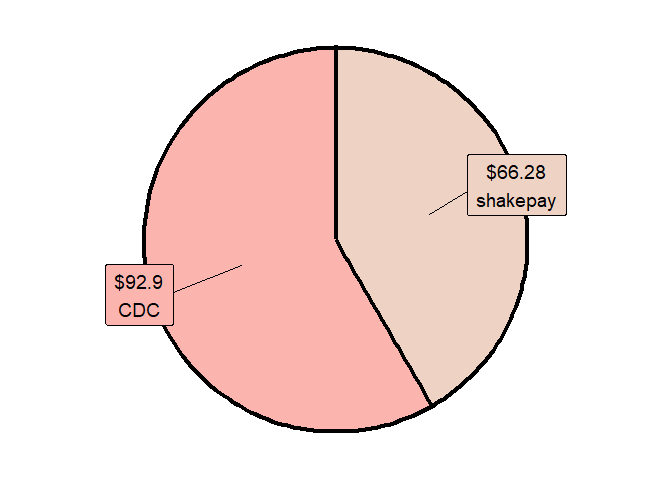
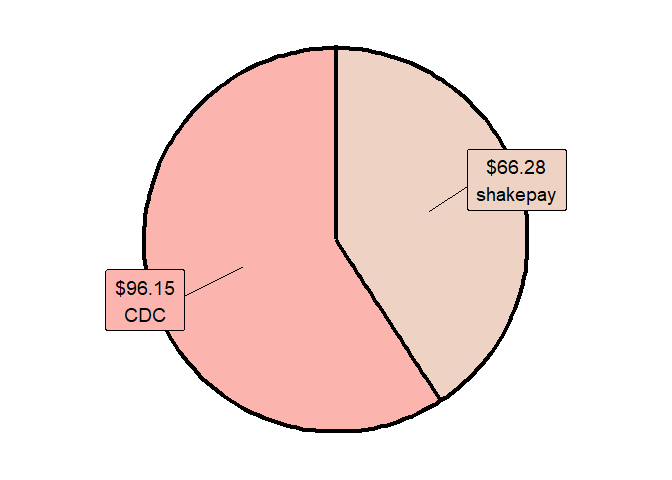
switch with_tz for as_datetime and adjust tests

diff --git a/README.md b/README.md
@@ -108,22 +108,22 @@ all.data <- merge_exchanges(formatted.shakepay, formatted.CDC)
 
 # Format data with ACB
 formatted.ACB <- format_ACB(all.data)
-#> Process started at 2023-01-08 19:54:28. Please be patient as the transactions process.
+#> Process started at 2023-01-08 20:30:32. Please be patient as the transactions process.
 #> [Formatting ACB (progress bar repeats for each coin)...]
-#> Process ended at 2023-01-08 19:54:29. Total time elapsed: 1.19 minutes
+#> Process ended at 2023-01-08 20:30:34. Total time elapsed: 0.03 minutes
 
 # Let's get a preview of the output
 as.data.frame(formatted.ACB[c(1, 4, 8, 10, 19, 20), c(1:6, 7:14, 24:26)])
 ```
 
-| date                | currency |  quantity | total.price |    spot.rate | transaction | fees | description                     | comment             | revenue.type |    value | exchange | rate.source | currency2 |    gains |       ACB |    ACB.share |
-|:--------------------|:---------|----------:|------------:|-------------:|:------------|-----:|:--------------------------------|:--------------------|:-------------|---------:|:---------|:------------|:----------|---------:|----------:|-------------:|
-| 2021-05-03 22:05:50 | BTC      | 0.0007334 |    51.25000 | 6.988278e+04 | buy         |    0 | crypto_purchase                 | Buy BTC             | NA           | 51.25000 | CDC      | exchange    | BTC       |       NA |  51.25000 | 6.988278e+04 |
-| 2021-05-07 23:06:50 | ETH      | 0.0205920 |    54.21000 | 2.632575e+03 | buy         |    0 | crypto_purchase                 | Buy ETH             | NA           | 54.21000 | CDC      | exchange    | ETH       |       NA |  54.21000 | 2.632575e+03 |
-| 2021-05-21 12:47:14 | BTC      | 0.0001300 |     0.00000 | 5.652762e+04 | revenue     |    0 | shakingsats                     | credit              | airdrops     |  7.34859 | shakepay | exchange    | BTC       |       NA | 104.28335 | 4.888608e+04 |
-| 2021-05-29 23:10:59 | CRO      | 6.4039545 |     0.00000 | 1.764535e-01 | revenue     |    0 | referral_card_cashback          | Card Cashback       | rebates      |  1.13000 | CDC      | exchange    | CRO       |       NA |  53.42000 | 1.741274e-01 |
-| 2021-07-06 22:18:40 | CRO      | 0.3207992 |     0.26000 | 8.104758e-01 | revenue     |    0 | crypto_earn_extra_interest_paid | Crypto Earn (Extra) | interests    |  0.26000 | CDC      | exchange    | CRO       |       NA |  53.68000 | 1.083560e-01 |
-| 2021-07-10 00:52:19 | BTC      | 0.0005299 |    31.26848 | 5.900715e+04 | sell        |    0 | purchase/sale                   | sale                | NA           | 31.26848 | shakepay | exchange    | BTC       | 8.463513 |  81.47838 | 4.303555e+04 |
+| date                | currency |  quantity | total.price |     spot.rate | transaction | fees | description                     | comment             | revenue.type |    value | exchange | rate.source | currency2 | gains |      ACB |     ACB.share |
+|:--------------------|:---------|----------:|------------:|--------------:|:------------|-----:|:--------------------------------|:--------------------|:-------------|---------:|:---------|:------------|:----------|------:|---------:|--------------:|
+| 2021-05-03 22:05:50 | BTC      | 0.0007334 |       51.25 | 69882.7777778 | buy         |    0 | crypto_purchase                 | Buy BTC             | NA           | 51.25000 | CDC      | exchange    | BTC       |    NA |  51.2500 | 69882.7777778 |
+| 2021-05-07 23:06:50 | ETH      | 0.0205920 |       54.21 |  2632.5750000 | buy         |    0 | crypto_purchase                 | Buy ETH             | NA           | 54.21000 | CDC      | exchange    | ETH       |    NA |  54.2100 |  2632.5750000 |
+| 2021-05-21 12:47:14 | BTC      | 0.0001300 |        0.00 | 56527.6188000 | revenue     |    0 | shakingsats                     | credit              | airdrops     |  7.34859 | shakepay | exchange    | BTC       |    NA | 104.2833 | 48886.0827905 |
+| 2021-05-29 23:10:59 | CRO      | 6.4039545 |        0.00 |     0.1764535 | revenue     |    0 | referral_card_cashback          | Card Cashback       | rebates      |  1.13000 | CDC      | exchange    | CRO       |    NA |  53.4200 |     0.1741274 |
+| 2021-06-27 21:17:50 | ETH      | 0.0007633 |        3.12 |  4087.6923838 | revenue     |    0 | crypto_earn_interest_paid       | Crypto Earn         | interests    |  3.12000 | CDC      | exchange    | ETH       |    NA |  57.3800 |  2685.1921836 |
+| 2021-07-06 22:18:40 | CRO      | 0.3207992 |        0.26 |     0.8104758 | revenue     |    0 | crypto_earn_extra_interest_paid | Crypto Earn (Extra) | interests    |  0.26000 | CDC      | exchange    | CRO       |    NA |  53.6800 |     0.1083560 |
 
 ### Summary info
 
@@ -135,12 +135,13 @@ report_overview(formatted.ACB,
 )
 ```
 
-| date.last           | currency | total.quantity | cost.share | total.cost | gains | losses |  net | rate.today | value.today | unrealized.gains | unrealized.losses | unrealized.net | currency2 |
-|:--------------------|:---------|---------------:|-----------:|-----------:|------:|-------:|-----:|-----------:|------------:|-----------------:|------------------:|---------------:|:----------|
-| 2021-07-23 17:21:19 | CRO      |    535.0406356 |       0.11 |      60.66 |  0.00 |      0 | 0.00 |       0.08 |       44.65 |               NA |            -16.01 |         -16.01 | CRO       |
-| 2021-07-10 00:52:19 | BTC      |      0.0018933 |   43035.55 |      81.48 |  8.46 |      0 | 8.46 |   22883.51 |       43.32 |               NA |            -38.16 |         -38.16 | BTC       |
-| 2021-06-27 21:17:50 | ETH      |      0.0213553 |    2684.58 |      57.33 |  0.00 |      0 | 0.00 |    1715.01 |       36.62 |               NA |            -20.71 |         -20.71 | ETH       |
-| 2021-07-23 17:21:19 | Total    |             NA |         NA |     199.47 |  8.46 |      0 | 8.46 |         NA |      124.59 |                0 |            -74.88 |         -74.88 | Total     |
+| date.last           | currency | total.quantity | cost.share | total.cost | gains | losses |   net | rate.today | value.today | unrealized.gains | unrealized.losses | unrealized.net | currency2 |
+|:--------------------|:---------|---------------:|-----------:|-----------:|------:|-------:|------:|-----------:|------------:|-----------------:|------------------:|---------------:|:----------|
+| 2021-07-23 17:21:19 | CRO      |    535.0406356 |       0.11 |      60.66 |  0.00 |      0 |  0.00 |       0.08 |       44.65 |               NA |            -16.01 |         -16.01 | CRO       |
+| 2021-07-25 18:22:02 | BTC      |      0.0013612 |   43035.55 |      58.58 | 20.57 |      0 | 20.57 |   22883.51 |       31.15 |               NA |            -27.43 |         -27.43 | BTC       |
+| 2021-07-28 23:23:04 | ETH      |      0.0114054 |    2685.19 |      30.63 |  8.25 |      0 |  8.25 |    1715.01 |       19.56 |               NA |            -11.07 |         -11.07 | ETH       |
+| 2021-07-11 20:19:55 | ETHW     |      0.3558067 |       8.99 |       3.20 |  0.00 |      0 |  0.00 |       4.39 |        1.56 |               NA |             -1.64 |          -1.64 | ETHW      |
+| 2021-07-28 23:23:04 | Total    |             NA |         NA |     153.07 | 28.82 |      0 | 28.82 |         NA |       96.92 |                0 |            -56.15 |         -56.15 | Total     |
 
 ``` r
 
@@ -154,30 +155,29 @@ report_summary(formatted.ACB,
 | Type              | Amount  | currency |
 |:------------------|:--------|:---------|
 | tax.year          | 2021    | CAD      |
-| gains             | 8.46    | CAD      |
+| gains             | 28.81   | CAD      |
 | losses            | 0.00    | CAD      |
-| net               | 8.46    | CAD      |
-| total.cost        | 199.47  | CAD      |
-| value.today       | 124.59  | CAD      |
+| net               | 28.81   | CAD      |
+| total.cost        | 153.07  | CAD      |
+| value.today       | 96.92   | CAD      |
 | unrealized.gains  | 0.00    | CAD      |
-| unrealized.losses | -74.88  | CAD      |
-| unrealized.net    | -74.88  | CAD      |
-| percentage.up     | -37.54% | CAD      |
-| all.time.up       | -33.30% | CAD      |
+| unrealized.losses | -56.15  | CAD      |
+| unrealized.net    | -56.15  | CAD      |
+| percentage.up     | -36.68% | CAD      |
+| all.time.up       | -17.86% | CAD      |
 
 ### Revenue estimation
 
 ``` r
 table.revenues <- report_revenues(formatted.ACB, tax.year = "2021")
-#> Adding missing grouping variables: `exchange`
 table.revenues
 ```
 
-| exchange | date.last           | total.revenues | airdrops | referrals | staking | promos | interests | rebates | rewards | currency |
-|:---------|:--------------------|---------------:|---------:|----------:|--------:|-------:|----------:|--------:|--------:|:---------|
-| CDC      | 2021-07-23 17:21:19 |          92.90 |  0.00000 |  30.19035 |       0 |      0 |     10.36 |   51.15 |     1.2 | CAD      |
-| shakepay | 2021-06-23 12:21:49 |          66.28 | 36.27886 |  30.00000 |       0 |      0 |      0.00 |    0.00 |     0.0 | CAD      |
-| total    | 2021-07-23 17:21:19 |         159.18 | 36.27886 |  60.19035 |       0 |      0 |     10.36 |   51.15 |     1.2 | CAD      |
+| exchange | date.last           | total.revenues | airdrops | referrals | staking | promos | interests | rebates | rewards | forks | mining | currency |
+|:---------|:--------------------|---------------:|---------:|----------:|--------:|-------:|----------:|--------:|--------:|------:|-------:|:---------|
+| CDC      | 2021-07-23 17:21:19 |          96.15 |     0.00 |     30.19 |       0 |      0 |     10.36 |   51.15 |     1.2 |   3.2 |      0 | CAD      |
+| shakepay | 2021-06-23 12:21:49 |          66.28 |    36.28 |     30.00 |       0 |      0 |      0.00 |    0.00 |     0.0 |   0.0 |      0 | CAD      |
+| total    | 2021-07-23 17:21:19 |         162.43 |    36.28 |     60.19 |       0 |      0 |     10.36 |   51.15 |     1.2 |   3.2 |      0 | CAD      |
 
 ``` r
 

diff --git a/TODOS.md b/TODOS.md
@@ -6,8 +6,13 @@
 - Replace for-loops with dplyr (e.g., in ACB)
 - Think about using `data.table` or `dtplyr`
 
+## Bugs
+
+- `lubridate::with_tz` seems to be creating problems in other timezones. Might be better to find a replacement like `lubridate::as_datetime`.
+
 ## Features
 
+- Round revenue table to 2 decimals
 - New error message for appropriate functions: "You must first run 'prepare_list_prices' before using this function."
 - Make sample data sets for all exchanges (remaining: adalite, binance, blockfi, BSC, CDC_exchange_rewards, CDC_exchange_trades, CDC_wallet, celsius, coinsmart, exodus, gemini, newton, pooltool, presearch)
 - Detect new transaction types not accounted for every exchange (done: CDC)
